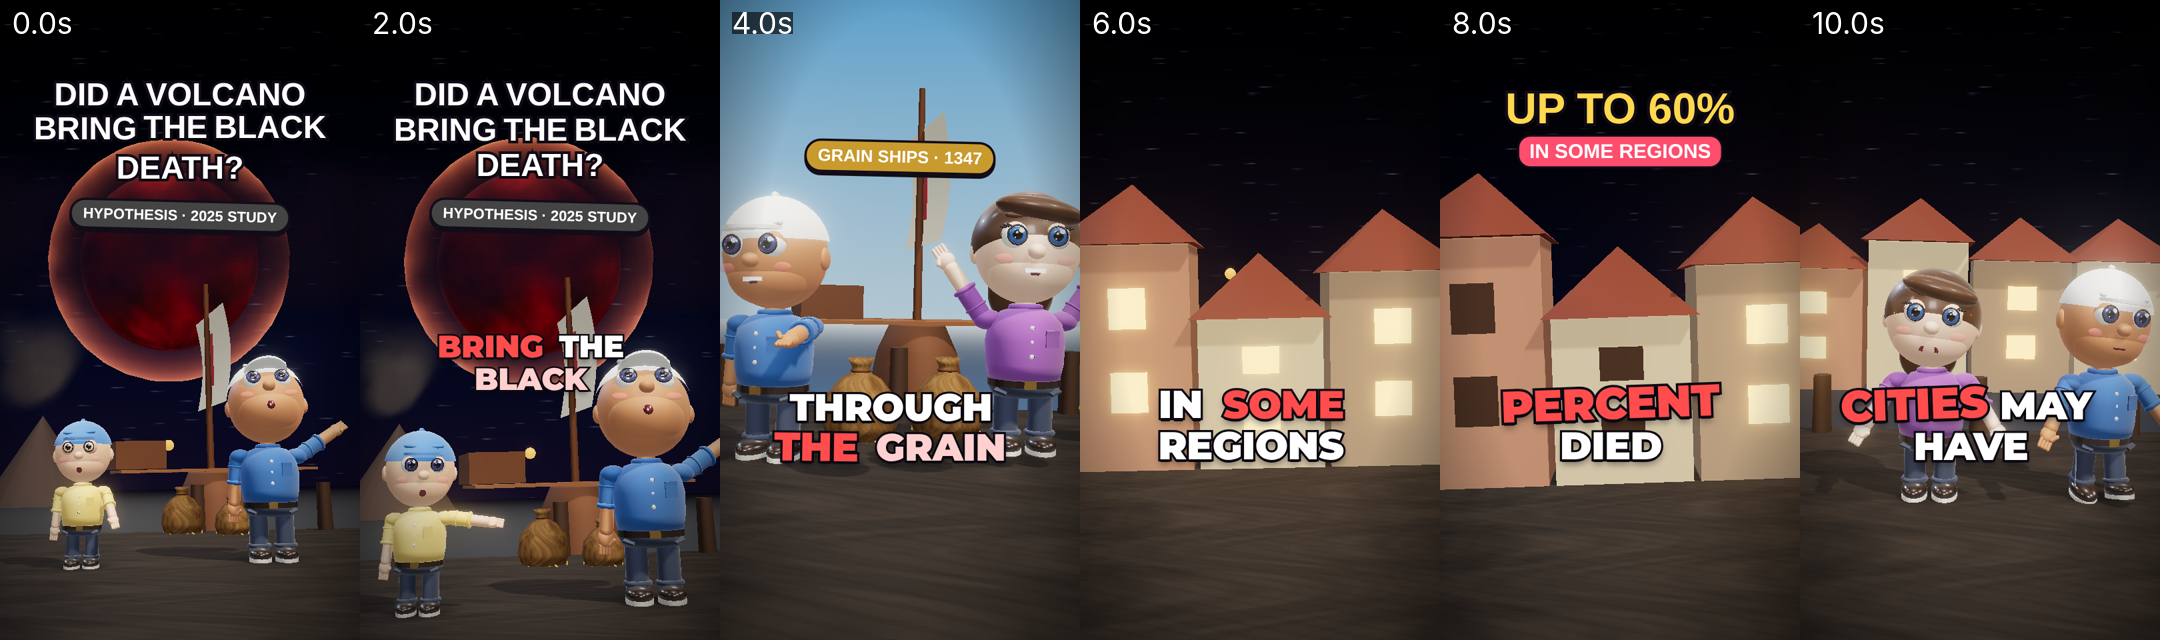
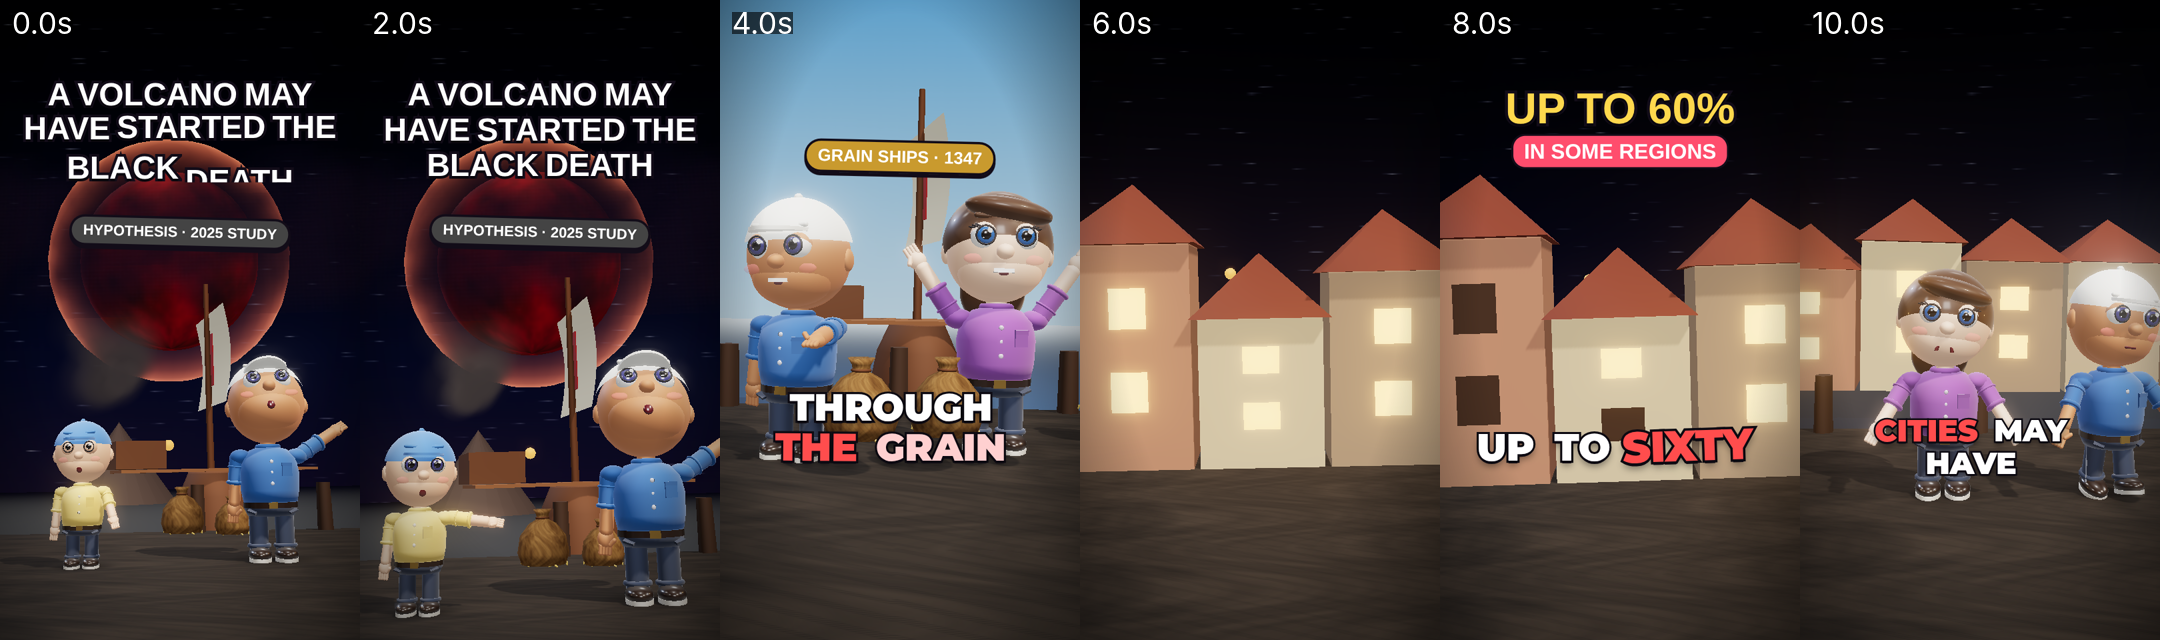
volcano-plague round 4 fixes; claim-check: spoken years, tens, spared-city sentence scope
Claude-Session: https://claude.ai/code/session_0152u2ZqYpLGAPScN5Bx2Q87

diff --git a/.claude/skills/claim-check/claims.py b/.claude/skills/claim-check/claims.py
@@ -13,21 +13,32 @@ PROVEN = re.compile(r"\b(proved?|proven|confirmed|definitely|certainly|left behi
 TIMELINK = re.compile(r"\b(around the same time|at the same time|right after|immediately|then)\b", re.I)
 NUM = re.compile(r"(?<![\w.])(\d[\d,]*(?:\.\d+)?)")
 WORDNUM = {"one": 1, "two": 2, "three": 3, "four": 4, "five": 5, "six": 6, "seven": 7, "eight": 8, "nine": 9, "ten": 10,
-           "twenty": 20, "thirty": 30, "forty": 40, "fifty": 50, "hundred": 100, "thousand": 1000, "million": 10**6, "billion": 10**9}
+           "eleven": 11, "twelve": 12, "thirteen": 13, "fourteen": 14, "fifteen": 15, "sixteen": 16, "seventeen": 17, "eighteen": 18, "nineteen": 19, "twenty": 20, "thirty": 30, "forty": 40, "fifty": 50, "sixty": 60, "seventy": 70, "eighty": 80, "ninety": 90, "hundred": 100, "thousand": 1000, "million": 10**6, "billion": 10**9}
 
 def words_to_numbers(text):
-    """'twenty-one' -> 21, 'twenty-five million' -> 25000000 (enough for script narration)."""
-    out = []; toks = re.findall(r"[a-z]+|\d[\d,]*", text.lower().replace("-", " "))
-    total = cur = None
-    for t in toks + ["_end"]:
-        if t in WORDNUM or re.fullmatch(r"\d[\d,]*", t):
-            v = WORDNUM.get(t) or int(t.replace(",", ""))
-            total = total or 0; cur = cur or 0
-            if v == 100: cur = (cur or 1) * 100
-            elif v >= 1000: total += (cur or 1) * v; cur = 0
-            else: cur += v
-        else:
-            if total is not None: out.append(total + (cur or 0)); total = cur = None
+    """'twenty-one' -> 21, 'twenty-five million' -> 25000000, spoken years 'thirteen forty-five' -> 1345,
+    'twenty twenty-five' -> 2025. Punctuation ends a number."""
+    out = []
+    for chunk in re.split(r"[.,;:!?]", text.lower().replace("-", " ")):
+        toks = re.findall(r"[a-z]+|\d[\d,]*", chunk) + ["_end"]; vals = []
+        for t in toks:
+            if t in WORDNUM or re.fullmatch(r"\d[\d,]*", t): vals.append(WORDNUM.get(t) or int(t.replace(",", ""))); continue
+            k = 0
+            while k < len(vals):
+                v = vals[k]
+                # year: a teen or "twenty" followed by a two-word or one-word number under 100
+                if v in range(11, 21) and k + 1 < len(vals) and vals[k + 1] < 100 and (v != 20 or vals[k + 1] >= 10):
+                    yr = vals[k + 1] + (vals[k + 2] if k + 2 < len(vals) and vals[k + 1] % 10 == 0 and vals[k + 1] >= 20 and vals[k + 2] < 10 else 0)
+                    step = 3 if yr != vals[k + 1] else 2; out.append(v * 100 + yr); k += step; continue
+                total = cur = 0
+                while k < len(vals) and not (vals[k] in range(11, 21) and cur):
+                    x = vals[k]
+                    if x == 100: cur = (cur or 1) * 100
+                    elif x >= 1000: total += (cur or 1) * x; cur = 0
+                    else: cur += x
+                    k += 1
+                out.append(total + cur)
+            vals = []
     return out
 
 def nums(text):
@@ -46,7 +57,8 @@ def main():
         items.append((s["start"], "VO", s["line"]))
         for o in s.get("overlays", []):
             if o["type"] == "counter":
-                items.append((o["t0"], "COUNTER", f"{o.get('prefix', '')}{o['to']:,}{o.get('suffix', '')} {o.get('label', '')}"))
+                v = o["to"]; vs = str(v) if isinstance(v, int) and 1000 <= v <= 2100 else f"{v:,}"  # years print without commas, as on screen
+                items.append((o["t0"], "COUNTER", f"{o.get('prefix', '')}{vs}{o.get('suffix', '')} {o.get('label', '')}"))
                 if o.get("roll", True) and abs(o["to"] - o.get("from", 0)) > 50:
                     items.append((o["t0"], "FLAG", f"counter rolls {o.get('from', 0):,} -> {o['to']:,}: in-between frames show numbers no source gives. Set \"roll\": false (pop the final value) or keep the roll under 1 s and say so."))
             else:
@@ -63,14 +75,16 @@ def main():
         for pr in sh.get("props", []):
             if pr.get("type") != "map": continue
             words = (sh["line"] + " " + " ".join(o.get("text", "") for o in sh.get("overlays", []))).lower()
-            spared = re.search(r"not affected|spared|did not need|didn't need|no grain", words)
+            spared = re.search(r"not affected|spared|did not need|didn't need|no grain", sh["line"].lower())
+            # a city counts as "said to be spared" only when it is named in the spoken sentence that says so
+            spared_names = " ".join(x for x in re.split(r"[.?!]", sh["line"].lower()) if re.search(r"not affected|spared|did not need|didn't need|no grain", x))
             routed = {r.get("to") for r in pr.get("routes", []) if not r.get("faded")}
             for c in pr.get("cities", []):
                 state = "RED (plague)" if c.get("redAt") is not None else "GREEN (spared)" if c.get("safe") else "gold"
                 items.append((sh["start"], "PICTURE", f"map: {c['id'].upper()} {state}" + (" on a route" if c["id"] in routed else "")))
                 if c.get("redAt") is not None and not any(c["id"] in x["line"].lower() and re.search(r"plague|death|cases", x["line"].lower()) for x in story["shots"]):
                     items.append((sh["start"], "FLAG", f"the map marks {c['id'].title()} RED (plague) but no spoken line names plague in {c['id'].title()} - every coloured marker needs a sourced line; keep it neutral"))
-                if spared and c["id"] in words and (c.get("redAt") is not None or c["id"] in routed or not c.get("safe")):
+                if spared and c["id"] in spared_names and (c.get("redAt") is not None or c["id"] in routed or not c.get("safe")):
                     items.append((sh["start"], "FLAG", f"the words say {c['id'].title()} was spared but the map shows it {state}" + (" on a route" if c["id"] in routed else "") + " - mark it safe (green) and off the routes"))
     issues = 0
     print(f"Fact list: {len(fact_nums)} numbers, hypothesis topic: {'yes' if hypo else 'no'}\n")

diff --git a/videos/volcano-plague/tools/make_story.py b/videos/volcano-plague/tools/make_story.py
@@ -31,7 +31,7 @@ SHIP = lambda **k: {**dict(type="ship", size=[4.5], pos=[2.9, -0.3, -3.6], rot=[
 # one shot per spoken line (21 lines), cut a hair before each line
 b = [0] + [round(lt(i)[0] - 0.12, 2) for i in range(2, 22)] + [END]
 SPLIT12 = round(wt("venice", lt(12)[0]) - 0.1, 2)
-SPLIT13 = round(wt("problem", lt(13)[0]) - 0.35, 2)
+SPLIT13 = round(wt("problem", lt(13)[0]) - 0.05, 2)
 s = lambda i: b[i - 1]; e = lambda i: b[i]   # shot i start / end
 
 SACKS1 = [dict(type="sack", size=[0.5], pos=[-0.2, 0.25, 1.4]), dict(type="sack", size=[0.42], pos=[0.45, 0.21, 1.2])]
@@ -40,9 +40,9 @@ SH = [
  dict(world="harbour", characters=[ch("bo", [-1.3, 0, 2.6], "point", expr="wow", wander=False), ch("tomas", [0.85, 0, 2.3], "lookup", expr="wow", wander=False)],
       props=[MOON(), SHIP(pos=[0.3, -0.3, -4.2]), PLUME(), dict(type="sack", size=[0.5], pos=[-0.2, 0.25, 1.4]), dict(type="sack", size=[0.42], pos=[0.45, 0.21, 1.2])], camera={"from": [0, 1.0, 10.6], "to": [0, 1.2, 8.4], "look": [-0.4, 5.6, -10]}, energy=1, shimmer=True,
       capFrom=e(1), overlays=[dict(type="title", text="A VOLCANO MAY HAVE STARTED THE BLACK DEATH", t0=-0.6, t1=e(1) + 0.2, y=230, size=96),
-                dict(type="badge", text="HYPOTHESIS · 2025 STUDY", t0=-0.6, t1=e(1), y=600, size=44, accent="#444444")]),
+                dict(type="badge", text="HYPOTHESIS · 2025 STUDY", t0=-0.6, t1=e(1), y=650, size=44, accent="#444444")]),
  # 2 you've never heard of it: an unknown eruption somewhere in the tropics
- dict(world="harbourday", characters=[ch("tomas", [-1.1, 0, 1.0], "throw", expr="grin"), ch("mara", [1.1, 0, 1.0], "cheer", expr="grin")],
+ dict(world="harbourday", characters=[ch("tomas", [-0.9, 0, 1.0], "throw", expr="grin"), ch("mara", [0.85, 0, 1.0], "cheer", expr="grin", wander=False)],
       props=[SHIP(pos=[0.3, -0.3, -5.0], size=[4.5])] + [dict(type="sack", size=[0.55], pos=[x, 0.3, z]) for x, z in [(-0.3, 1.6), (0.4, 1.4), (-2.2, 0.2), (2.2, 0.0)]],
       camera={"from": [0, 1.4, 7.2], "to": [0, 1.2, 5.8], "look": [0, 1.2, 0]}, energy=2,
       overlays=[dict(type="badge", text="GRAIN SHIPS · 1347", t0=s(2) + 0.2, t1=e(2), y=420, size=52, accent="#c99a2e")]),
@@ -79,7 +79,7 @@ SH = [
       overlays=[dict(type="badge", text="CLUE 2: PYRENEES TREE RINGS", t0=s(8) + 0.1, t1=e(8), y=380, size=50, accent="#2f9bff")]),
  # 9 cold, wet summers
  dict(world="rainfield", characters=[ch("bo", [-0.6, 0, 1.0], "shiver", expr="worried"), ch("mara", [0.6, 0, 0.8], "hug", expr="worried")],
-      props=[dict(type="frost", size=[7], pos=[0, 0.05, 0], appear=dict(t0=s(9), t1=e(9), grow=True))] + [dict(type="box", color="#bfe6ff", size=[0.025, 0.32, 0.025], pos=[-2.6 + (k * 0.37) % 5.2, 0, -1.5 + (k * 0.61) % 3.2], fall=9 + k % 4) for k in range(46)],
+      props=[dict(type="frost", size=[7], pos=[0, 0.05, 0], appear=dict(t0=s(9), t1=e(9), grow=True))] + [dict(type="box", color="#bfe6ff", size=[0.025, 0.32, 0.025], pos=[-2.6 + (k * 0.37) % 5.2, 0, -2.8 + (k * 0.61) % 2.0], fall=9 + k % 4) for k in range(46)],
       camera={"from": [0, 2.0, 7], "to": [0, 1.9, 6.4], "look": [0, 1.1, 0]}, energy=1,
       overlays=[dict(type="badge", text="COLD, WET SUMMERS", t0=s(9) + 0.1, t1=e(9), y=420, size=54, accent="#4a6a8a")]),
  # 10 clue 3: writers saw strange clouds and dark lunar eclipses
@@ -107,7 +107,7 @@ SH = [
       props=[SHIP(pos=[0.4, -0.3, -6.5], size=[4.5])] + [dict(type="sack", size=[0.55], pos=[x, 0.3, z]) for x, z in [(-2.2, 0.2), (-1.8, -0.4), (2.0, 0.0), (2.4, -0.5), (0, -1.2)]],
       camera={"from": [0, 2.2, 9.6], "to": [0, 2.1, 8.8], "look": [0, 1.9, -2]}, energy=2, shimmer=True),
  # 13b "...may have been the problem": hard cut to night, a flea hops off the sack, faces drop
- dict(world="harbour", characters=[ch("tomas", [-0.9, 0, 1.2], "lookup", expr="worried", wander=False), ch("mara", [1.0, 0, 1.0], "scared", expr="worried", wander=False)],
+ dict(world="harbour", characters=[ch("tomas", [-0.7, 0, 1.2], "lookup", expr="worried", wander=False), ch("mara", [0.75, 0, 1.0], "scared", expr="worried", wander=False)],
       props=[dict(type="sack", size=[0.9], pos=[0.05, 0, 1.6]), SHIP(pos=[0.4, -0.3, -5.5])] + [dict(type="flea", pos=[x, y, z], scale=1.6, hop=dict(h=0.35, speed=1.6 + 0.3 * k, phase=0.2 * k, dx=0.0)) for k, (x, y, z) in enumerate([(0.0, 1.0, 1.9), (0.3, 0.7, 1.9), (-0.25, 0.6, 2.0)])],
       camera={"from": [0, 1.6, 6.2], "to": [0, 1.3, 4.8], "look": [0, 0.9, 1.4]}, drop=True),
  # 14 less than two months after the last grain ships (night harbour, the ship sails away)

diff --git a/videos/volcano-plague/review_pre/PACK.md b/videos/volcano-plague/review_pre/PACK.md
@@ -2,82 +2,83 @@
 
 **These are stills of the planned video, rendered straight from the scene. Motion between stills is not visible: judge story, framing, text, facts and pacing. The full render happens only after this review.**
 
-- Length: 71.8 s
+- Length: 75.3 s
 - Voice before mixing: -16.0 LUFS (the final mix is normalised to about -14 LUFS)
 
 ## Spoken script and pictures, by shot
 
  1. [0.0-3.4s] "A lost volcano may have helped bring the Black Death."  | world: harbour | characters: bo wow  (point), tomas wow  (lookup)
- 2. [3.4-5.6s] "Through the grain that saved them."  | world: harbourday | characters: tomas grin  (throw), mara grin  (cheer)
- 3. [5.6-8.8s] "In some regions, up to sixty percent died."  | world: harbour
- 4. [8.8-11.9s] "Yet some big cities may have been spared. Why?"  | world: harbour | characters: mara worried  (shrug), tomas neutral  (shrug)
- 5. [11.9-15.4s] "A twenty twenty-five study. Clue one: ice cores."  | world: ice | characters: clim   (talk), hist wow  (point)
- 6. [15.4-18.7s] "Around thirteen forty-five, a spike of sulphur."  | world: ice
- 7. [18.7-21.3s] "An eruption, or series of eruptions."  | world: space
- 8. [21.3-24.5s] "Clue two: pale blue rings in Pyrenees trees."  | world: lab | characters: hist wow  (inspect)
- 9. [24.5-26.2s] "Cold, wet summers."  | world: rainfield | characters: bo worried  (shiver), mara worried  (hug)
-10. [26.2-30.4s] "And writers saw strange clouds, and dark eclipses of the Moon."  | world: harbour | characters: hist wow  (lookup)
-11. [30.4-33.4s] "Crops could have failed across the Mediterranean."  | world: rainfield | characters: mara worried  (no)
-12. [33.4-35.3s] "So in thirteen forty-seven,"  | world: studio
-13. [35.3-39.5s] "Venice, Genoa and Pisa imported grain from the Black Sea."  | world: studio
-14. [39.5-42.6s] "Food for the hungry. And that may have been the problem."  | world: harbourday | characters: tomas grin  (throw), bo grin  (cheer), mara grin  (cheer)
-15. [42.6-45.9s] "Less than two months after the last grain ships,"  | world: harbourday | characters: mara worried  (inspect), tomas worried  (point)
-16. [45.9-48.9s] "Venice reported its first plague cases."  | world: harbour | characters: mara worried  (shiver), tomas worried  (lookup)
-17. [48.9-52.8s] "The ships most likely carried fleas, feeding on grain dust."  | world: harbour
-18. [52.8-58.3s] "Milan and Rome apparently did not need grain imports after thirteen forty-five."  | world: studio
-19. [58.3-60.8s] "They were most probably not affected."  | world: harbourday | characters: mara grin  (wave), folk grin  (cheer), tomas grin  (wave)
-20. [60.8-66.0s] "Nobody knows which volcano it was. And some historians are not convinced."  | world: space
-21. [66.0-69.9s] "A starving city. Grain ships waiting. Would you let them in?"  | world: harbour | characters: clim grin  (point), mara worried  (shrug), hist worried  (no)
-22. [69.9-71.8s] "Look at that Moon again."  | world: harbour | characters: bo wow  (point), tomas wow  (lookup)
+ 2. [3.4-5.9s] "Through the grain meant to save them."  | world: harbourday | characters: tomas grin  (throw), mara grin  (cheer)
+ 3. [5.9-9.1s] "In some regions, up to sixty percent died."  | world: harbour
+ 4. [9.1-12.1s] "Yet some big cities may have been spared. Why?"  | world: harbour | characters: mara worried  (shrug), tomas neutral  (shrug)
+ 5. [12.1-15.7s] "A twenty twenty-five study. Clue one: ice cores."  | world: ice | characters: clim   (talk), hist wow  (point)
+ 6. [15.7-19.0s] "Around thirteen forty-five, a spike of sulphur."  | world: ice
+ 7. [19.0-21.6s] "An eruption, or series of eruptions."  | world: space
+ 8. [21.6-24.8s] "Clue two: pale blue rings in Pyrenees trees."  | world: lab | characters: hist wow  (inspect)
+ 9. [24.8-26.4s] "Cold, wet summers."  | world: rainfield | characters: bo worried  (shiver), mara worried  (hug)
+10. [26.4-30.7s] "And writers saw strange clouds, and dark eclipses of the Moon."  | world: harbour | characters: hist wow  (lookup)
+11. [30.7-33.6s] "Crops could have failed across the Mediterranean."  | world: rainfield | characters: mara worried  (no)
+12. [33.6-35.5s] "So in thirteen forty-seven,"  | world: studio
+13. [35.5-39.7s] "Venice, Genoa and Pisa imported grain from the Black Sea."  | world: studio
+14. [39.7-42.2s] "Food for the hungry. And that may have been the"  | world: harbourday | characters: tomas grin  (throw), bo grin  (cheer), mara grin  (cheer)
+15. [42.2-42.9s] "problem."  | world: harbour | characters: tomas worried  (lookup), mara worried  (scared)
+16. [42.9-46.1s] "Less than two months after the last grain ships,"  | world: harbour
+17. [46.1-49.1s] "Venice reported its first plague cases."  | world: harbour | characters: mara worried  (shiver), tomas worried  (lookup)
+18. [49.1-53.1s] "The ships most likely carried fleas, feeding on grain dust."  | world: harbour
+19. [53.1-58.6s] "Milan and Rome apparently did not need grain imports after thirteen forty-five."  | world: studio
+20. [58.6-61.0s] "They were most probably not affected."  | world: harbourday | characters: mara grin  (wave), folk grin  (cheer), tomas grin  (wave)
+21. [61.0-66.3s] "Nobody knows which volcano it was. And some historians are not convinced."  | world: space
+22. [66.3-72.1s] "Your city is starving. Grain ships arrive. Nobody knows about plague. Open the port?"  | world: harbour | characters: clim grin  (point), mara worried  (shrug), hist worried  (no)
+23. [72.1-75.3s] "And it may all have started under a Moon like this."  | world: harbour | characters: bo wow  (point), tomas wow  (lookup)
 
 ## On-screen text (besides word-by-word captions)
 
-- -0.6-3.6s title: DID A VOLCANO BRING THE BLACK DEATH?
+- -0.6-3.6s title: A VOLCANO MAY HAVE STARTED THE BLACK DEATH
 - -0.6-3.4s badge: HYPOTHESIS · 2025 STUDY
-- 3.6-5.6s badge: GRAIN SHIPS · 1347
-- 7.1-8.8s counter: UP TO 60% [IN SOME REGIONS]
-- 11.2-11.9s title: WHY?
-- 12.0-15.4s badge: 2025 STUDY: BAUCH & BÜNTGEN
-- 13.7-15.4s badge: CLUE 1: ICE CORES
-- 15.5-18.7s counter: AROUND 1345 [SULPHUR SPIKE]
-- 18.9-21.3s badge: WHICH ONE? UNKNOWN · LIKELY TROPICAL
-- 21.4-24.5s badge: CLUE 2: PYRENEES TREE RINGS
-- 24.6-26.2s badge: COLD, WET SUMMERS
-- 26.4-30.4s badge: CLUE 3: WRITTEN ACCOUNTS
-- 30.6-33.4s badge: CROPS COULD HAVE FAILED
-- 33.6-35.8s counter: 1347 [GRAIN FROM THE BLACK SEA]
-- 42.8-45.9s timeline: < 2 MONTHS
-- 46.1-48.9s badge: VENICE: FIRST PLAGUE CASES
-- 49.1-52.8s badge: MOST LIKELY: FLEAS IN THE GRAIN DUST
-- 52.9-58.3s badge: RED: PLAGUE REPORTED · GOLD: ALSO IMPORTED GRAIN
-- 54.0-58.3s badge: GREEN: APPARENTLY NO IMPORTS NEEDED
-- 58.4-60.8s badge: MOST PROBABLY NOT AFFECTED · DEBATED
-- 60.9-66.0s title: WHICH VOLCANO?
-- 61.4-66.0s badge: HYPOTHESIS · SOME HISTORIANS ARE CAUTIOUS
-- 66.2-69.9s title: WOULD YOU LET THEM IN?
-- 67.0-69.9s badge: YES: FEED THE CITY
-- 67.6-69.9s badge: NO: CLOSE THE PORT
+- 3.6-5.9s badge: GRAIN SHIPS · 1347
+- 7.4-9.1s counter: UP TO 60% [IN SOME REGIONS]
+- 11.5-12.1s title: WHY?
+- 12.2-15.7s badge: 2025 STUDY: BAUCH & BÜNTGEN
+- 14.0-15.7s badge: CLUE 1: ICE CORES
+- 15.8-19.0s counter: AROUND 1345 [SULPHUR SPIKE]
+- 19.2-21.6s badge: WHICH ONE? UNKNOWN · LIKELY TROPICAL
+- 21.7-24.8s badge: CLUE 2: PYRENEES TREE RINGS
+- 24.9-26.4s badge: COLD, WET SUMMERS
+- 26.6-30.7s badge: CLUE 3: WRITTEN ACCOUNTS
+- 30.9-33.6s badge: CROPS COULD HAVE FAILED
+- 33.9-36.0s counter: 1347 [GRAIN FROM THE BLACK SEA]
+- 43.1-46.1s timeline: < 2 MONTHS
+- 46.3-49.1s badge: VENICE: FIRST PLAGUE CASES
+- 49.4-53.1s badge: MOST LIKELY: FLEAS IN THE GRAIN DUST
+- 53.2-58.6s badge: GOLD: GRAIN SHIPS 1347 · RED: VENICE CASES
+- 54.2-58.6s badge: GREEN: APPARENTLY NO IMPORTS
+- 58.7-61.0s badge: MOST PROBABLY NOT AFFECTED · DEBATED
+- 61.1-66.3s title: WHICH VOLCANO?
+- 61.6-66.3s badge: HYPOTHESIS · SOME HISTORIANS ARE CAUTIOUS
+- 66.2-72.1s title: OPEN THE PORT?
+- 66.3-72.1s badge: YES: FEED THE CITY
+- 66.6-72.1s badge: NO: CLOSE IT
 
 - Style: mystery; captions: {"words": 3, "highlight": ["VOLCANO", "PLAGUE", "BLACK", "DEATH", "SULPHUR", "ERUPTION", "ERUPTIONS", "GRAIN", "FLEAS", "VENICE", "GENOA", "PISA", "MILAN", "ROM
 - Voice file: voiceover.wav; music/SFX bed: bed.wav
 
 ## Motion inside long shots (mean picture change start->end; under 0.03 = nearly frozen)
 
-- 0.0-3.4s: 0.091
-- 5.6-8.8s: 0.061
-- 8.8-11.9s: 0.084
-- 11.9-15.4s: 0.089
-- 15.4-18.7s: 0.047
-- 21.3-24.5s: 0.071
-- 26.2-30.4s: 0.060
-- 35.3-39.5s: 0.235
-- 39.5-42.6s: 0.041
-- 42.6-45.9s: 0.046
-- 45.9-48.9s: 0.081
-- 48.9-52.8s: 0.047
-- 52.8-58.3s: 0.084
-- 60.8-66.0s: 0.238
-- 66.0-69.9s: 0.089
+- 0.0-3.4s: 0.090
+- 5.9-9.1s: 0.061
+- 9.1-12.1s: 0.088
+- 12.1-15.7s: 0.086
+- 15.7-19.0s: 0.046
+- 21.6-24.8s: 0.068
+- 26.4-30.7s: 0.060
+- 35.5-39.7s: 0.235
+- 42.9-46.1s: 0.034
+- 46.1-49.1s: 0.081
+- 49.1-53.1s: 0.049
+- 53.1-58.6s: 0.088
+- 61.0-66.3s: 0.295
+- 66.3-72.1s: 0.078
+- 72.1-75.3s: 0.084
 
 ## Fact list and sources (from script.md)
 
@@ -144,8 +145,8 @@ Re-run once the real story.json exists.
 
 # Upload: A Volcano Brought the Plague?
 
-- File: final.mp4, 71.8 s, 1080x1920. Cover: cover.jpg (from 0.2 s).
-- On-screen hook: DID A VOLCANO BRING THE BLACK DEATH?
+- File: final.mp4, 75.3 s, 1080x1920. Cover: cover.jpg (from 0.2 s).
+- On-screen hook: A VOLCANO MAY HAVE STARTED THE BLACK DEATH
 - TikTok Creator Rewards: over 60 s - upload as rendered, no in-app trim
 
 ## Disclosure (switch these ON)

diff --git a/videos/volcano-plague/UPLOAD.md b/videos/volcano-plague/UPLOAD.md
@@ -1,7 +1,7 @@
 # Upload: A Volcano Brought the Plague?
 
-- File: final.mp4, 71.8 s, 1080x1920. Cover: cover.jpg (from 0.2 s).
-- On-screen hook: DID A VOLCANO BRING THE BLACK DEATH?
+- File: final.mp4, 75.3 s, 1080x1920. Cover: cover.jpg (from 0.2 s).
+- On-screen hook: A VOLCANO MAY HAVE STARTED THE BLACK DEATH
 - TikTok Creator Rewards: over 60 s - upload as rendered, no in-app trim
 
 ## Disclosure (switch these ON)
